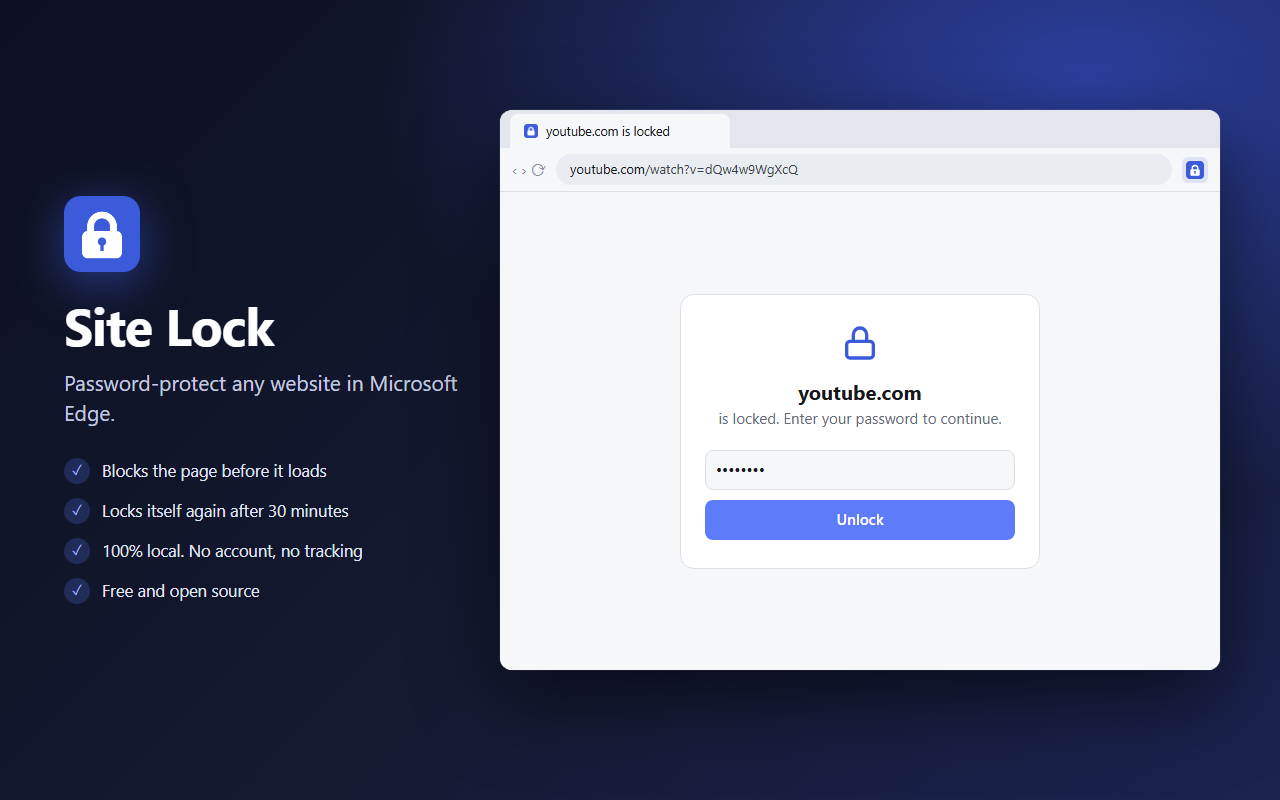
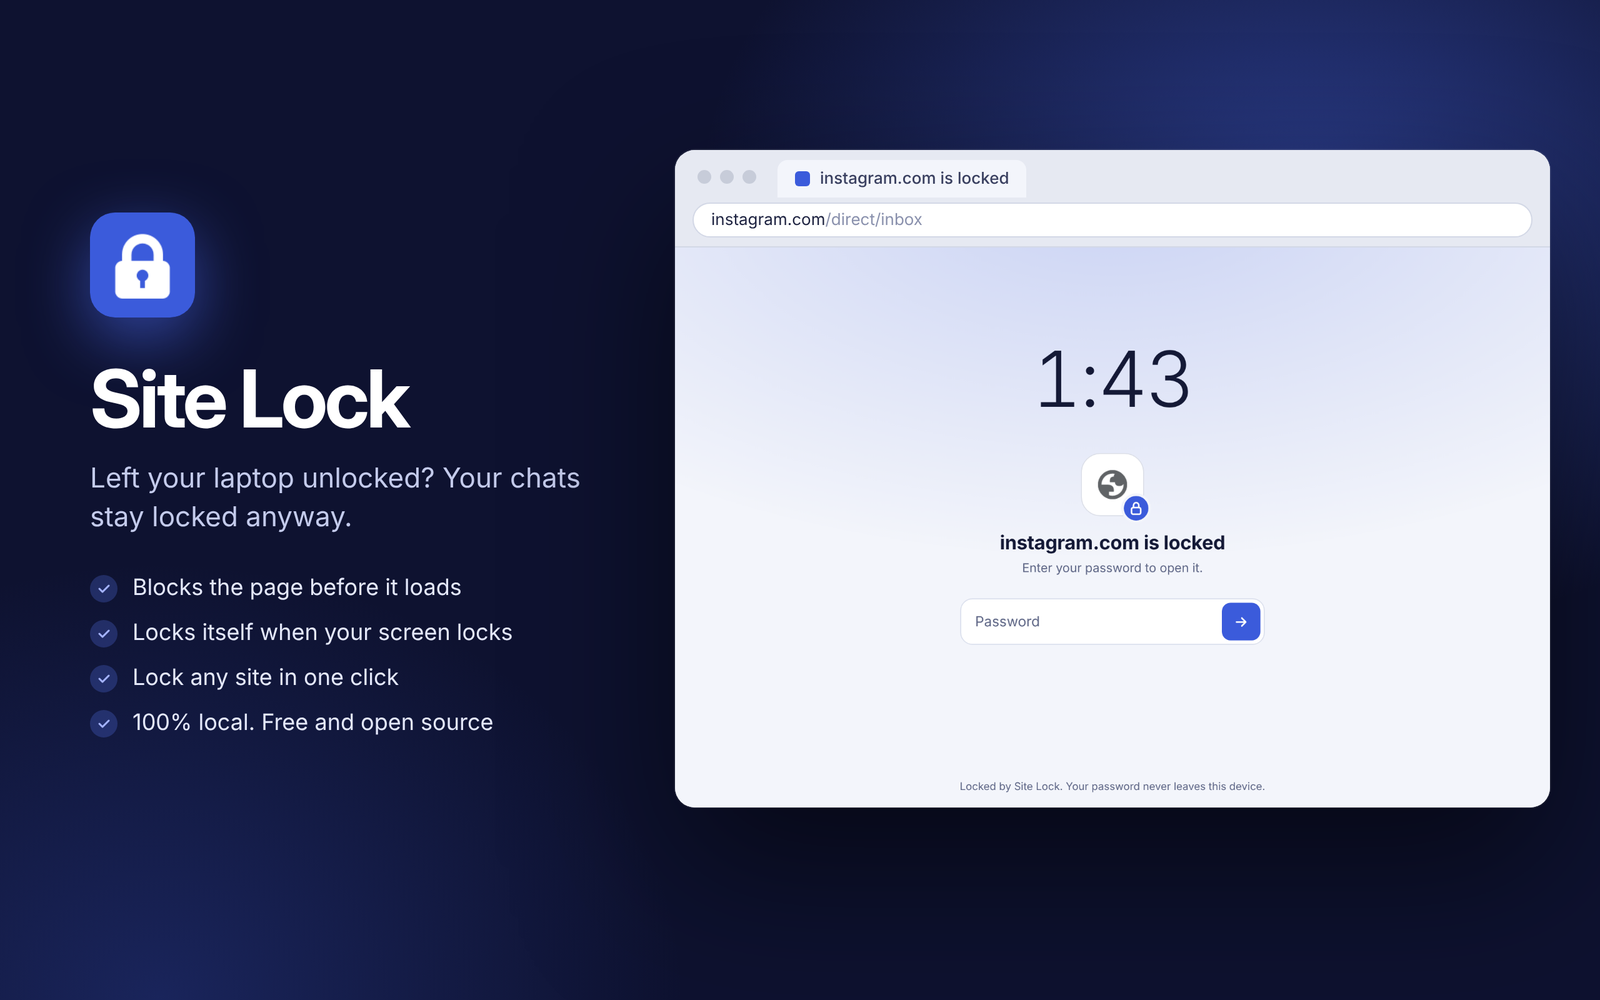
Refresh README for 1.1: new screenshots, demo GIF, what's new
- Replace hero and popup screenshots with the 1.1 lock screen and popup
- Add a 15-second demo GIF and a What's new in 1.1 section
- Add a version badge and update-from-older-version steps
- Popup: don't reserve space for an empty status line

diff --git a/popup.css b/popup.css
@@ -67,3 +67,6 @@ details summary:hover { color: var(--text); }
 .ask-icon { width: 40px; height: 40px; border-radius: 10px; margin-bottom: 2px; }
 .ask h1 { font-size: 17px; word-break: break-word; }
 .ask .row { width: 100%; margin-top: 6px; }
+
+/* Don't hold space for a status line that has nothing to say. */
+#main-msg:empty { display: none; }

diff --git a/README.md b/README.md
@@ -4,24 +4,42 @@
 
 # Site Lock
 
-### Put a password on any website.
+### Left your laptop unlocked? Your chats stay locked.
 
-A tiny, private browser extension for **Microsoft Edge** that locks Instagram, WhatsApp and any site you choose behind a password.<br>
-Walked away and forgot to lock your laptop? Your chats stay private anyway.<br>
+A tiny, private browser extension for **Microsoft Edge** that puts a password on Instagram, WhatsApp or any site you choose.<br>
 No account. No servers. No tracking. Just a lock.
 
 [![Microsoft Edge](https://img.shields.io/badge/Microsoft_Edge-ready-0078D7?style=for-the-badge&logo=microsoftedge&logoColor=white)](#-install-in-30-seconds)
 [![Manifest V3](https://img.shields.io/badge/Manifest-V3-3b5bdb?style=for-the-badge)](https://learn.microsoft.com/en-us/microsoft-edge/extensions/)
 [![License: MIT](https://img.shields.io/badge/License-MIT-2b8a3e?style=for-the-badge)](LICENSE)
+[![Version](https://img.shields.io/github/v/release/Sandeep2k5/site-lock?style=for-the-badge&color=3b5bdb&label=version)](https://github.com/Sandeep2k5/site-lock/releases/latest)
 [![Dependencies: 0](https://img.shields.io/badge/dependencies-0-646b78?style=for-the-badge)](#-under-the-hood)
 
 [**⬇ Download**](https://github.com/Sandeep2k5/site-lock/releases/latest) · [**Install**](#-install-in-30-seconds) · [**How it works**](#-under-the-hood) · [**Privacy**](PRIVACY.md)
 
 <br>
 
-<img src="docs/hero.png" alt="A locked YouTube tab in Edge showing the Site Lock password screen" width="860">
+<img src="docs/hero.png" alt="An Instagram tab in Edge showing the Site Lock lock screen with a clock and a password box" width="860">
 
 </div>
+
+<br>
+
+## 🎬 See it in action
+
+<div align="center">
+<img src="docs/demo.gif" alt="Someone types instagram.com on an unlocked laptop and gets the Site Lock screen instead of the chats" width="540">
+</div>
+
+<br>
+
+## 🆕 What's new in 1.1
+
+- **Lock any site in one click.** Open a site, click Site Lock, and it asks *Lock this site?*. No built-in list.
+- **Locks itself when you walk away.** Screen lock, sleep, or 1 to 10 minutes without input locks everything.
+- **Alt+Shift+L** locks every site instantly.
+- **Harder to get around.** The Back button and tabs left open are covered, and repeated wrong passwords make you wait.
+- **A new lock screen** with a clock, the site's icon and a cleaner popup.
 
 <br>
 
@@ -74,7 +92,7 @@ The Back button and tabs left open are covered, not just new visits. After 5 wro
 </table>
 
 <div align="center">
-<img src="docs/popup.png" alt="The Site Lock popup: lock the current site, manage the list, and see unlock status" width="860">
+<img src="docs/popup.png" alt="The Site Lock popup asking to lock the current site, showing an unlocked site, and listing locked sites with timer settings" width="860">
 </div>
 
 <br>
@@ -89,6 +107,12 @@ The Back button and tabs left open are covered, not just new visits. After 5 wro
 4. Click **Load unpacked** and select the extracted folder.
 
 Then click the 🧩 icon in the toolbar and pin **Site Lock** so it's always visible.
+
+<details>
+<summary><b>Updating from an older version</b></summary>
+<br>
+Extract the new zip over your old Site Lock folder, then click <b>Reload</b> on the Site Lock card in <code>edge://extensions</code>. Your password and locked sites are kept.
+</details>
 
 <details>
 <summary><b>Using Chrome, Brave, Opera or another Chromium browser?</b></summary>
@@ -111,8 +135,8 @@ That's normal for extensions installed outside the store. Close the warning; Sit
 | **1** | Click the Site Lock icon and **create a password**. |
 | **2** | Open any site you want to protect, click the Site Lock icon, and answer **Lock this site?** |
 | **3** | Next time you open it, you'll see the lock screen. Enter the password to continue. |
-| **4** | Use **Manage sites** to add or remove sites, change the re-lock timer or change your password. |
-| **⚡** | **Lock all now** locks every unlocked site straight away. |
+| **4** | Use **Sites and settings** to remove sites, set the re-lock timer and auto-lock, or change your password. |
+| **⚡** | **Lock all now** (or **Alt+Shift+L**) locks every unlocked site straight away. |
 
 <br>
 
